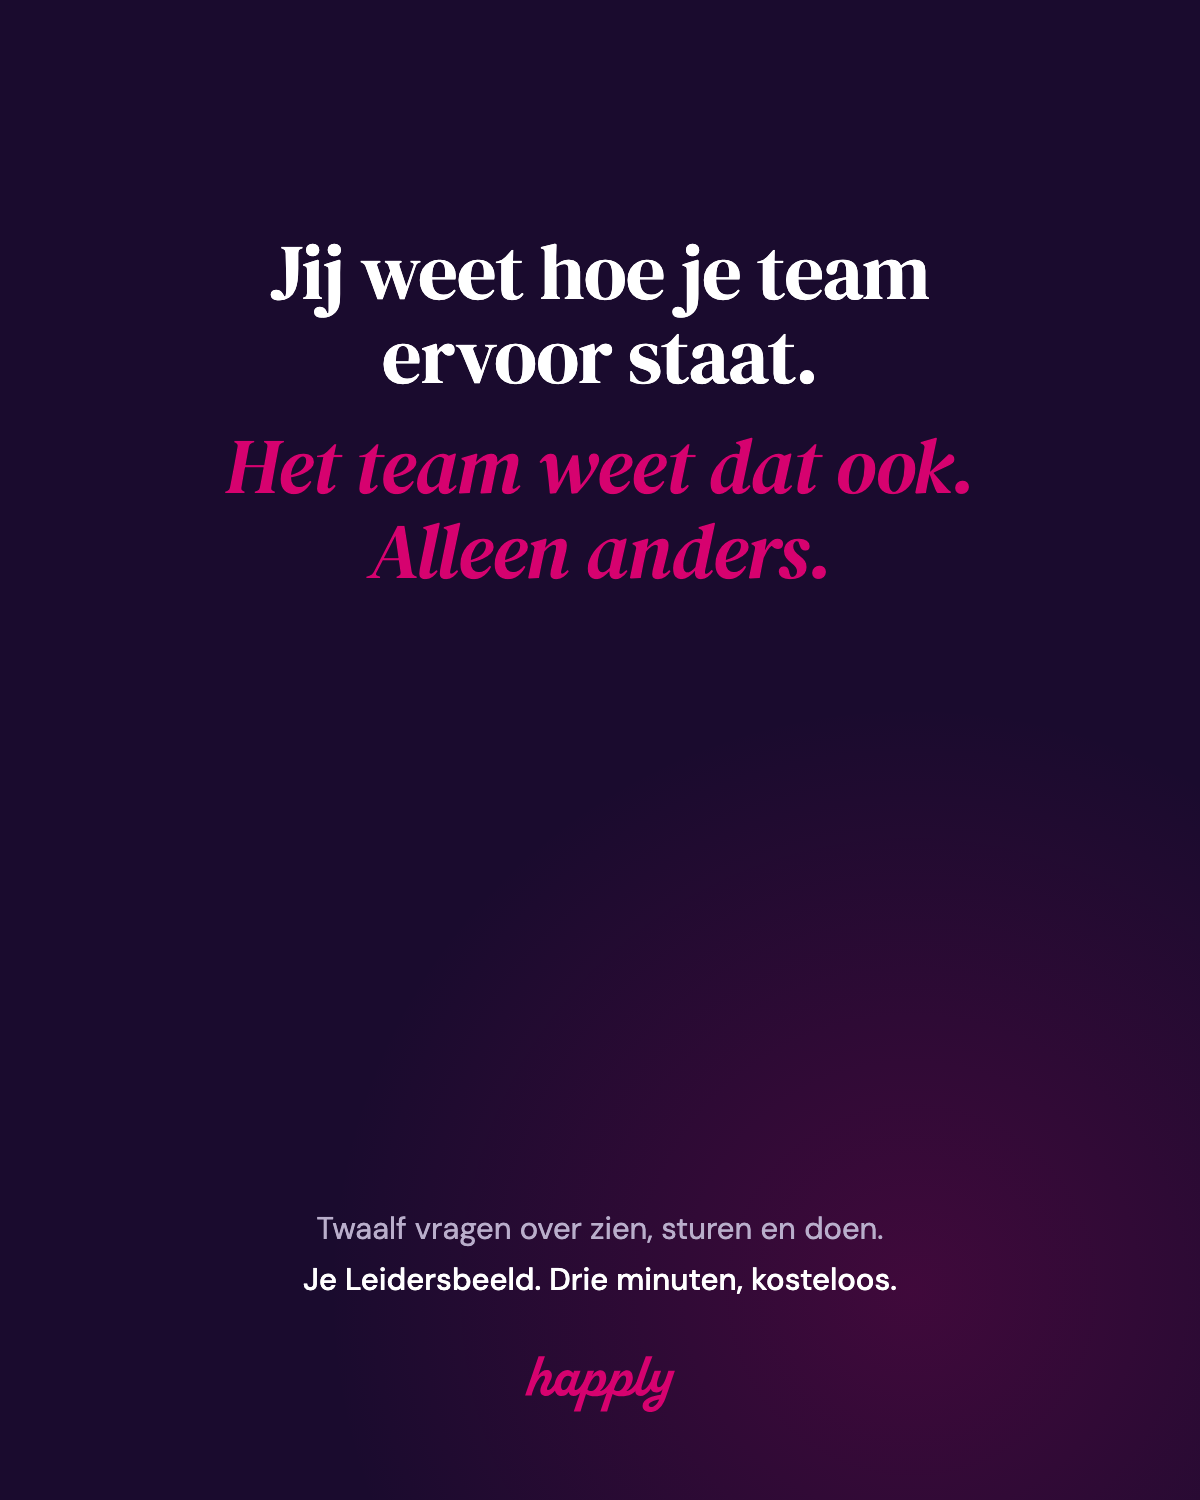
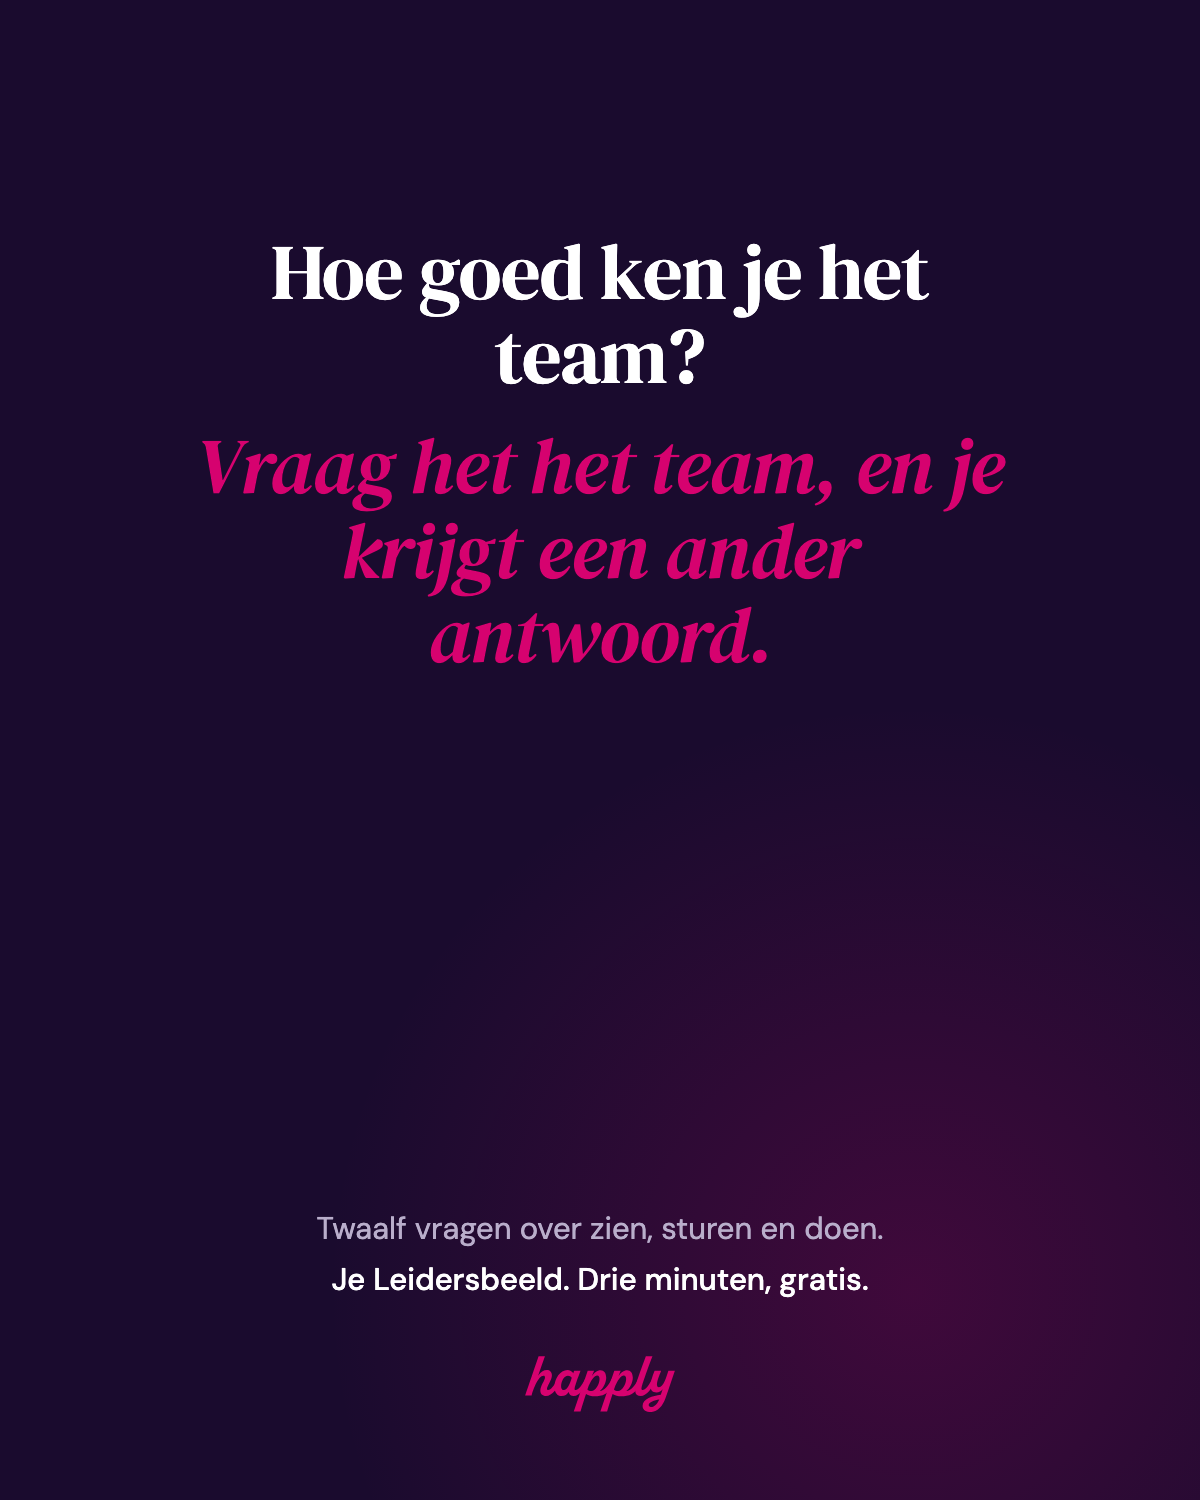
Kaart en post op dezelfde vraag als de site
Hoe goed ken je het team, voor leider en coach tegelijk. De kaart draait
hem om met de tweede regel: vraag het het team en je krijgt een ander
antwoord. Post 1 eindigt nu met een regel voor wie een team leidt en een
voor wie teams begeleidt, in plaats van alleen de eerste.

Changed region(s): [[0.1542, 0.1533, 0.8325, 0.46], [0.2467, 0.828, 0.74, 0.8587]]

diff --git a/assets/campagne/kaart-sjabloon.html b/assets/campagne/kaart-sjabloon.html
@@ -98,8 +98,8 @@
 </section>
 
 <section class="kaart" id="kaart4">
-  <h1><span class="wit">Jij weet hoe je team ervoor staat.</span><em>Het team weet dat ook. Alleen anders.</em></h1>
-  <div class="landing">Twaalf vragen over zien, sturen en doen.<b>Je Leidersbeeld. Drie minuten, kosteloos.</b></div>
+  <h1><span class="wit">Hoe goed ken je het team?</span><em>Vraag het het team, en je krijgt een ander antwoord.</em></h1>
+  <div class="landing">Twaalf vragen over zien, sturen en doen.<b>Je Leidersbeeld. Drie minuten, gratis.</b></div>
 </section>
 
 <div class="logo" aria-label="Happly">

diff --git a/campagne/linkedin-leidersbeeld.md b/campagne/linkedin-leidersbeeld.md
@@ -9,10 +9,12 @@ letters, cijfers en streepjes.
 
 ---
 
-## Post 1 · voor leidinggevenden
+## Post 1 · voor leidinggevenden en coaches
 
-Vraag een teamleider hoe zijn team ervoor staat en je krijgt een helder
-antwoord. Vraag het dat team zelf, en je krijgt een ander helder antwoord.
+Hoe goed ken je het team?
+
+Vraag het een leidinggevende en je krijgt een helder antwoord. Vraag het het
+team zelf, en je krijgt een ander helder antwoord.
 
 Allebei kloppen ze. Ze kijken alleen naar iets anders.
 
@@ -24,12 +26,15 @@ Waar die twee beelden uiteenlopen, zit bijna altijd het gesprek dat nog niet is
 gevoerd. Niet omdat iemand iets verbergt, maar omdat niemand het verschil kan
 zien.
 
-Wij hebben dat meetbaar gemaakt. Twaalf vragen over zien, sturen en doen. Jij
-beantwoordt ze over je team, je team beantwoordt ze over zichzelf, en de twee
-beelden komen naast elkaar te staan.
+Wij hebben dat meetbaar gemaakt. Twaalf vragen over zien, sturen en doen. De
+leider beantwoordt ze over het team, het team beantwoordt ze over zichzelf, en
+de twee beelden komen naast elkaar te staan.
 
-De eerste helft kun je vandaag doen. Drie minuten, geen account, geen
-betaalgegevens, en je krijgt je Leidersbeeld in je mail.
+Leid je een team: de eerste helft doe je vandaag. Drie minuten, gratis, geen
+account.
+
+Begeleid je teams: stuur de link naar een opdrachtgever. De vraag hoe het team
+het zelf ziet, komt daarna vanzelf. En die kun jij beantwoorden.
 
 https://www.teamkrachtindex.nl/leidersbeeld?src=linkedin
 
@@ -62,7 +67,7 @@ https://happly.nl
 
 ## Opmerkingen bij het plaatsen
 
-- Post 1 heeft de kaart nodig; post 2 kan zonder, of met dezelfde kaart.
+- Post 1 spreekt allebei aan en hoort bij de kaart. Post 2 is de verdieping voor coaches, voor wie na post 1 wil weten hoe de link voor hem werkt.
 - Niet allebei op dezelfde dag. Post 1 eerst, post 2 een week later, zodat wie
   beide leest de volgorde ziet die klopt: eerst het instrument, dan het aanbod.
 - LinkedIn duwt berichten met een externe link naar beneden. Wil je bereik boven
